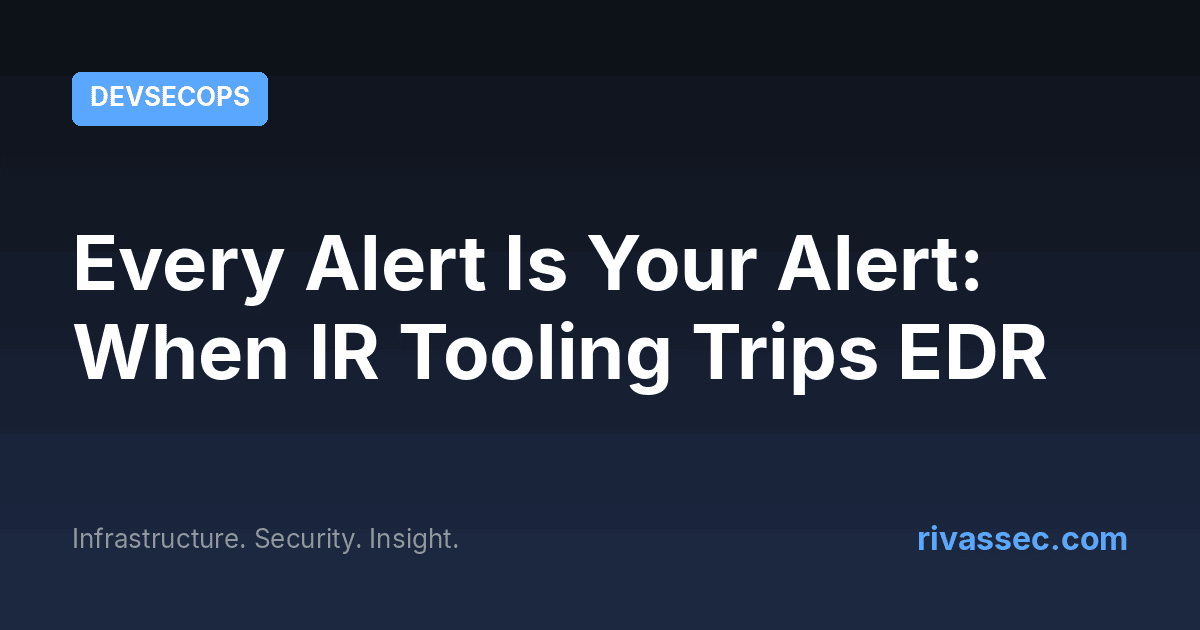
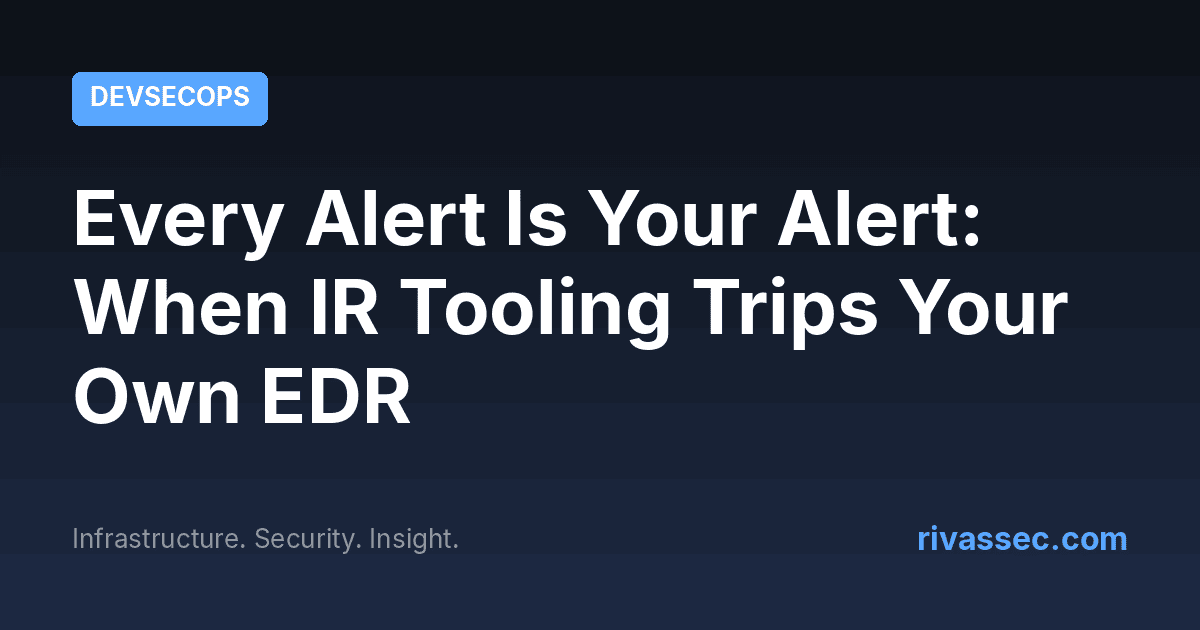
draft(every-alert): sanitize per pre-publish security review
Same playbook as the parent post (cryptominer-in-the-docker-layer):
generalize vendor-product names so the article reads as a teaching
piece rather than an internal incident report.

- Title gains "Your Own EDR" framing to make it about the analyst,
  not a specific vendor's product
- Tags drop `falcon`
- Lede framing shifts to "during a recent container-forensics
  investigation" matching the parent post's voice
- Specific detection name (MacOSIngressToolTransfer) replaced with
  the generic "high-severity ingress-tool-transfer alert, MITRE T1105"
- Claude Code -> "an LLM-driven coding assistant" /
  "an LLM coding-assistant session" / "the agent"
- --dangerously-skip-permissions -> "the assistant's permissive flag"
- Falcon / Falcon Complete -> "the EDR" / "the vendor side"
- Jira -> "the issue tracker"
- Flink job server -> "containerized workload"
- GuardDuty / AttackSequence -> "the cloud detector's correlation
  finding"
- PRISEC-XXXX placeholder generalized to <parent ticket>
- /tmp/prisec-XXXX-evidence/payloads/ -> "a per-incident evidence
  directory"
- Self-attribution comment example reformulated as a skeleton with
  <placeholders> rather than near-real text
- Cover regenerated to match the new title

Final stats: 1,683 words, 0 em-dashes, 0 antithesis warnings, 0
named-vendor-product mentions in the body. Internal cross-link
updated to point at the new parent post title.

Status remains draft; same publish-approval gate as the parent.

Changed region(s): [[0.0617, 0.3016, 0.8942, 0.6937]]

diff --git a/content/every-alert-is-your-alert.md b/content/every-alert-is-your-alert.md
@@ -1,26 +1,26 @@
-Title: Every Alert Is Your Alert: When IR Tooling Trips EDR
+Title: Every Alert Is Your Alert: When IR Tooling Trips Your Own EDR
 Date: 2026-07-01
 Modified: 2026-07-01
 Author: RivasSec
 Category: DevSecOps
-Tags: incident-response, edr, falcon, mitre-attack, t1105, runbook, ai-tooling
+Tags: incident-response, edr, mitre-attack, t1105, runbook, ai-tooling
 Slug: every-alert-is-your-alert
 Summary: An EDR fired a true-positive on my analyst laptop while I was investigating a real cryptominer. The traffic pattern was a textbook T1105 ingress tool transfer because that is exactly what I was doing. The runbook gap is older than the LLM coding assistant that triggered it.
 Status: draft
 
 [TOC]
 
-While I was investigating a real cryptominer compromise on a production EC2 instance, my analyst laptop's EDR fired on me. The detection was a high-severity `MacOSIngressToolTransfer`, MITRE T1105, against a process tree that started at my shell, descended through a Claude Code session running with elevated permissions, and ended at two `curl` calls fetching the attacker's dropper into `/tmp` for hash and content analysis.
+During a recent container-forensics investigation, the EDR on my analyst laptop fired a true-positive against my own activity. The detection was a high-severity ingress-tool-transfer alert, MITRE T1105, against a process tree that started at my shell, descended through an LLM-driven coding assistant session running with elevated permissions, and ended at two `curl` calls fetching the attacker's dropper into `/tmp` for hash and content analysis.
 
 The detection was correct. The traffic was, by every shape the sensor examines, an ingress tool transfer.
 
 It was also me, deliberately, doing my job.
 
-This post is not about defending myself to the SOC. The SOC was right and the EDR was right. This post is about the gap the detection exposes: most IR runbooks still assume the suspicious transfer came from the adversary or the user. Authorized analyst tooling that mirrors adversary behavior is a third category, and almost nobody's runbook handles it.
+This post is not about defending myself to a SOC. The SOC was right and the EDR was right. This post is about the gap the detection exposes: most IR runbooks still assume the suspicious transfer came from the adversary or the user. Authorized analyst tooling that mirrors adversary behavior is a third category, and almost nobody's runbook handles it.
 
 ## The setup
 
-The parent ticket was a confirmed compromise of a Flink job server. GuardDuty fired four findings inside a minute, the AttackSequence finding gave me the binary path, and I had it pulled out of the image's overlay2 layer within an hour. I covered the host-side investigation in a separate post: [The Miner Was In The Image Layer, Not In Memory]({filename}cryptominer-in-the-docker-layer.md). Read that first if you want the technical narrative; this post is the meta-incident that ran in parallel.
+The parent investigation was a confirmed cryptominer running in a containerized workload. The cloud detector's correlation finding gave me the binary path, and I had it pulled out of the image's overlay2 layer within an hour. I covered the host-side investigation in a separate post: [How I Learned to Investigate Docker Image Layers During Incident Response]({filename}cryptominer-in-the-docker-layer.md). Read that first if you want the technical narrative; this post is the meta-incident that ran in parallel.
 
 While the host investigation was active, I needed two things off the attacker's infrastructure:
 
@@ -31,7 +31,7 @@ I had two reasonable options. I could open both URLs in a browser on a sandbox V
 
 I chose the second. Faster. No VM context switch. The files were data, not executables; I had no intent to run them. The point was a hash comparison and a static read.
 
-The Claude Code session I was running already had shell permissions for the investigation. I told it to fetch both URLs into `/tmp/prisec-XXXX-evidence/payloads/` and SHA-256 them. It did. Falcon noticed.
+The agent session I was running already had shell permissions for the investigation. I told it to fetch both URLs into a per-incident evidence directory and SHA-256 them. It did. The EDR noticed.
 
 ## What the EDR saw
 
@@ -45,7 +45,7 @@ From the sensor's perspective the picture was unambiguous:
 
 That is, line for line, the ATT&CK definition of T1105: `Adversaries may transfer tools or other files from an external system into a compromised environment.` The sensor doesn't get to know whether "the compromised environment" is "my laptop during a real IR engagement, used by the analyst conducting the IR." It gets the syscalls, and the syscalls were textbook.
 
-The EDR fired. A ticket auto-generated in Jira. Within the hour the SOC's outsourced detection-and-response team had escalated and closed it `true_positive`.
+The EDR fired. A ticket auto-generated in the issue tracker. Within the hour the detection-and-response team had escalated and closed it `true_positive`.
 
 That last word is the interesting one. By the platform's taxonomy, the disposition was correct. The sensor was not wrong. The behavior was real. The label, however, doesn't capture the structural fact: the source was an authorized analyst, the activity was sanctioned, and the resulting telemetry needs a different kind of close than a real intrusion.
 
@@ -76,7 +76,7 @@ This incident would have happened in 2018 too. An analyst who decided to `curl` 
 
 In 2018, the analyst who reached for `curl` knew they were about to make their own laptop look briefly like a compromise. They paused. They opened a sandbox VM. They didn't, often.
 
-In 2026, the analyst with a Claude Code session running has shell access already extended out to `--dangerously-skip-permissions`, and the easiest path from "I need to read that payload" to "the payload is on disk and hashed" is to type the request into the agent. The agent doesn't know that pulling the dropper looks identical to the malware pulling the dropper. The agent hasn't read the EDR's MITRE coverage matrix. It just executes.
+In 2026, the analyst with an LLM coding-assistant session running has shell access already extended out via the assistant's permissive flag, and the easiest path from "I need to read that payload" to "the payload is on disk and hashed" is to type the request into the agent. The agent doesn't know that pulling the dropper looks identical to the malware pulling the dropper. The agent hasn't read the EDR's MITRE coverage matrix. It just executes.
 
 This is not a problem with the agent. The agent is doing exactly what an analyst would do without one. The agent makes the friction lower, which means the same path gets taken more often, which means the same EDR alerts get fired more often, by more analysts, on more endpoints.
 
@@ -84,15 +84,15 @@ If your team has any LLM-driven shell access on managed laptops, your EDR is abo
 
 ## What I changed in my own runbook
 
-The closure I ended up writing on the Jira ticket had three parts. I am keeping all three for the next time:
+The closure I ended up writing on the auto-created ticket had three parts. I am keeping all three for the next time:
 
-**1. Self-attribution.** The first comment on the auto-created ticket linked it to the parent IR ticket and named the URLs and paths. Specifically: "this detection was triggered by my own IR work on PRISEC-XXXX. The agent session fetched the dropper at ... and the pastebin payload at ... into /tmp/.../payloads/ for hash and content analysis. Network behavior matches T1105 as expected; source was authorized analyst activity, not a compromise of <hostname>."
+**1. Self-attribution comment.** The first comment on the auto-created ticket linked it to the parent IR ticket and named the URLs and paths. The skeleton looks like: "this detection was triggered by my own IR work on `<parent ticket>`. The agent session fetched `<URL 1>` and `<URL 2>` into `<evidence path>` for hash and content analysis. Network behavior matches T1105 as expected; source was authorized analyst activity, not a compromise of `<hostname>`."
 
 The wording matters. "Self-attributed" is more durable than "false positive" because it acknowledges the alert was correct and locates the source. Future-me reading the ticket history can reconstruct what happened without ambiguity.
 
-**2. Parent-link.** I created a Jira "relates to" link from the EDR ticket back to the parent IR ticket. The parent describes what we were investigating and why; the EDR ticket describes what the sensor saw. The pair is the full picture.
+**2. Parent-link.** Create a "relates to" link from the EDR ticket back to the parent IR ticket. The parent describes what was being investigated and why; the EDR ticket describes what the sensor saw. The pair is the full picture.
 
-**3. Match-the-platform-disposition.** Falcon Complete had already closed the ticket as `true_positive`. Rather than dispute that, I closed the Jira mirror as Done with my self-attribution comment in place. The platform tracks the right thing for the platform; my Jira closure tracks the right thing for the audit history.
+**3. Match-the-platform-disposition.** The vendor side had already closed the ticket as `true_positive`. Rather than dispute that, I closed the issue-tracker mirror as Done with my self-attribution comment in place. The platform tracks the right thing for the platform; the issue-tracker closure tracks the right thing for the audit history.
 
 ## What I'd want my team's runbook to add
 